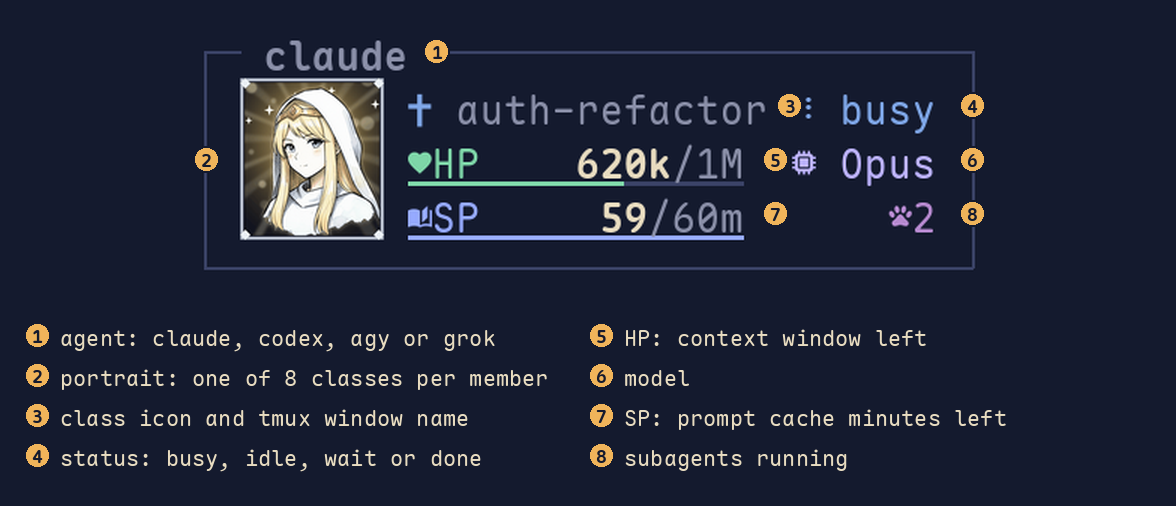
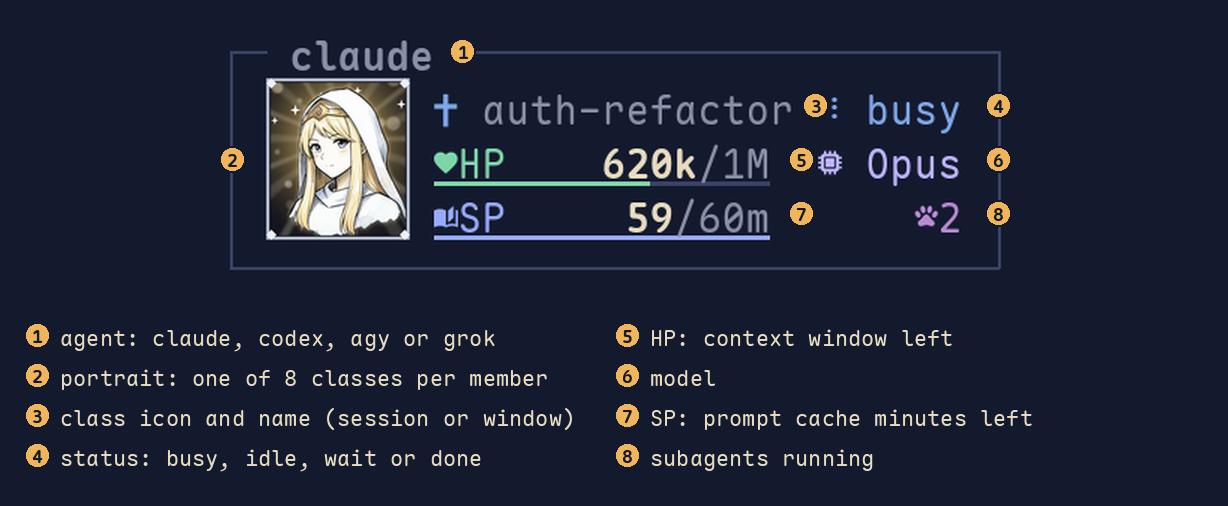
Fix CI workflow YAML and card name label
Quote the ruff step name: its ": " made ci.yml invalid YAML, so no
job ran. The card legend now says the name is the Claude session
name, else the tmux window name.

diff --git a/scripts/screenshot.py b/scripts/screenshot.py
@@ -176,7 +176,7 @@ CARD_ROWS = (15, 20)  # the "auth-refactor" card in the fixture frame
 MARKS = [
     ("agent: claude, codex, agy or grok", (10.2, 0)),
     ("portrait: one of 8 classes per member", (0.6, 2)),
-    ("class icon and tmux window name", (24.9, 1)),
+    ("class icon and name (session or window)", (24.9, 1)),
     ("status: busy, idle, wait or done", (32.5, 1)),
     ("HP: context window left", (24.3, 2)),
     ("model", (32.5, 2)),

diff --git a/README.zh-TW.md b/README.zh-TW.md
@@ -24,13 +24,13 @@
 
 ## 怎麼看隊員卡
 
-<img src="docs/img/card.png" width="590" alt="一張隊員卡，編號標出：agent 種類、頭像、職業圖示與 window 名稱、狀態、HP、模型、SP、子代理">
+<img src="docs/img/card.png" width="590" alt="一張隊員卡，編號標出：agent 種類、頭像、職業圖示與名稱、狀態、HP、模型、SP、子代理">
 
 | 編號 | 意思 |
 |---|---|
 | 1 | agent 種類：claude、codex、agy 或 grok |
 | 2 | 頭像：8 種職業之一，依 session id 分配，同一小隊不重複 |
-| 3 | 職業圖示和 tmux window 名稱 |
+| 3 | 職業圖示和名稱：Claude Code 的 session 名稱（`/rename` 或自動標題），沒有才用 tmux window 名稱；其他 agent 顯示種類（`codex`、`agy`、`grok`） |
 | 4 | 狀態：busy（工作中）、idle（閒置）、wait（等你）、done（做完） |
 | 5 | HP：剩餘的 context |
 | 6 | 模型 |

diff --git a/README.md b/README.md
@@ -20,9 +20,11 @@ with a portrait, a status, **HP** (context left) and **SP** (prompt cache minute
 
 ## Reading a card
 
-<img src="docs/img/card.png" width="590" alt="One member card with numbered marks: agent, portrait, class icon and window name, status, HP, model, SP, subagents">
+<img src="docs/img/card.png" width="590" alt="One member card with numbered marks: agent, portrait, class icon and name, status, HP, model, SP, subagents">
 
 Every member gets one of 8 classes (portrait and icon), picked from its session id; members of one squad do not repeat.
+The name (3) is the Claude Code session name (`/rename` or its automatic title), else the tmux window name;
+other agents show their kind (`codex`, `agy`, `grok`).
 Above the cards, each tmux session is a squad with its own crest. The squad you are looking at has a gold background
 and bar, and a pin marks the session the sidebar itself is in.
 
